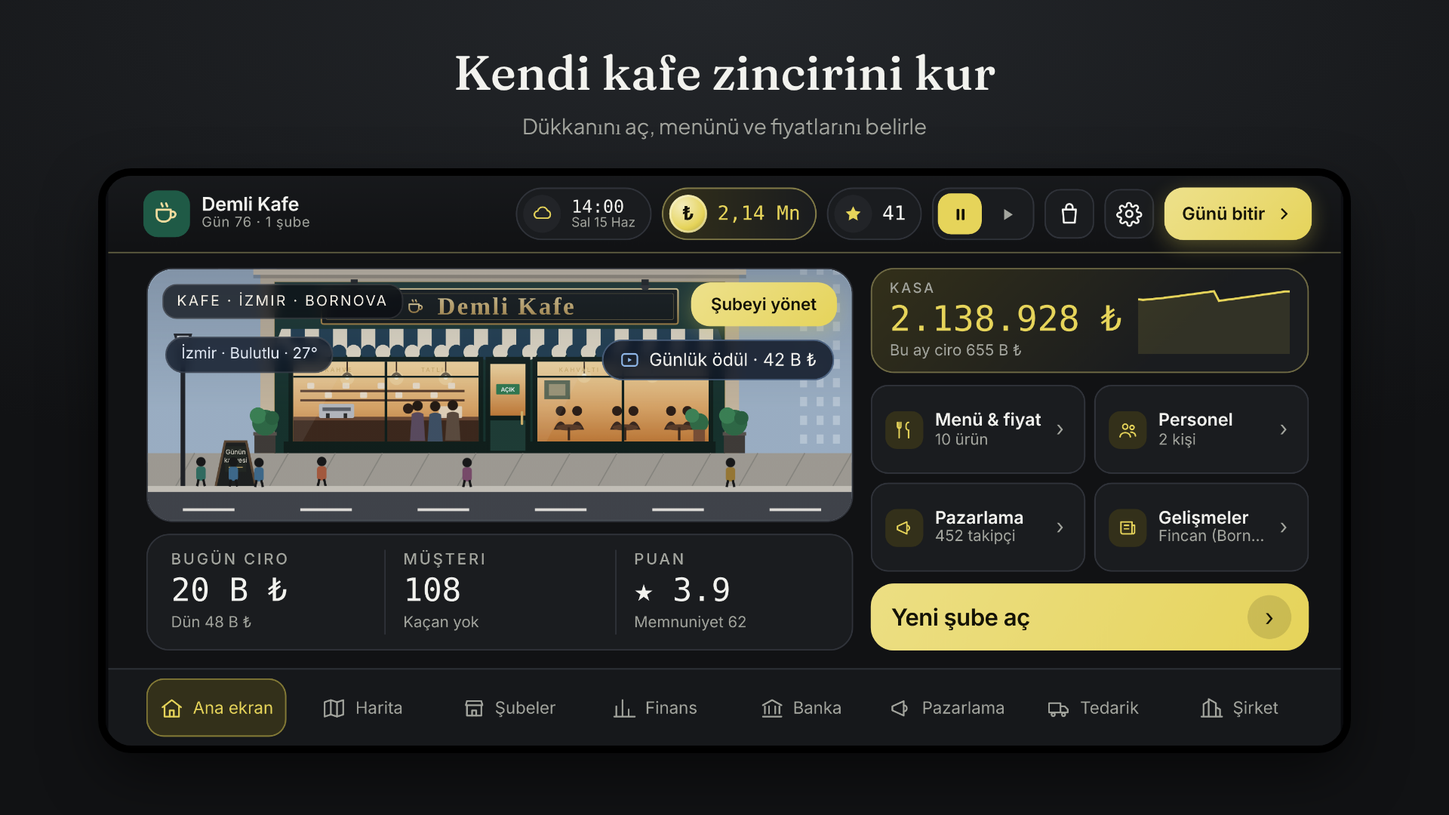
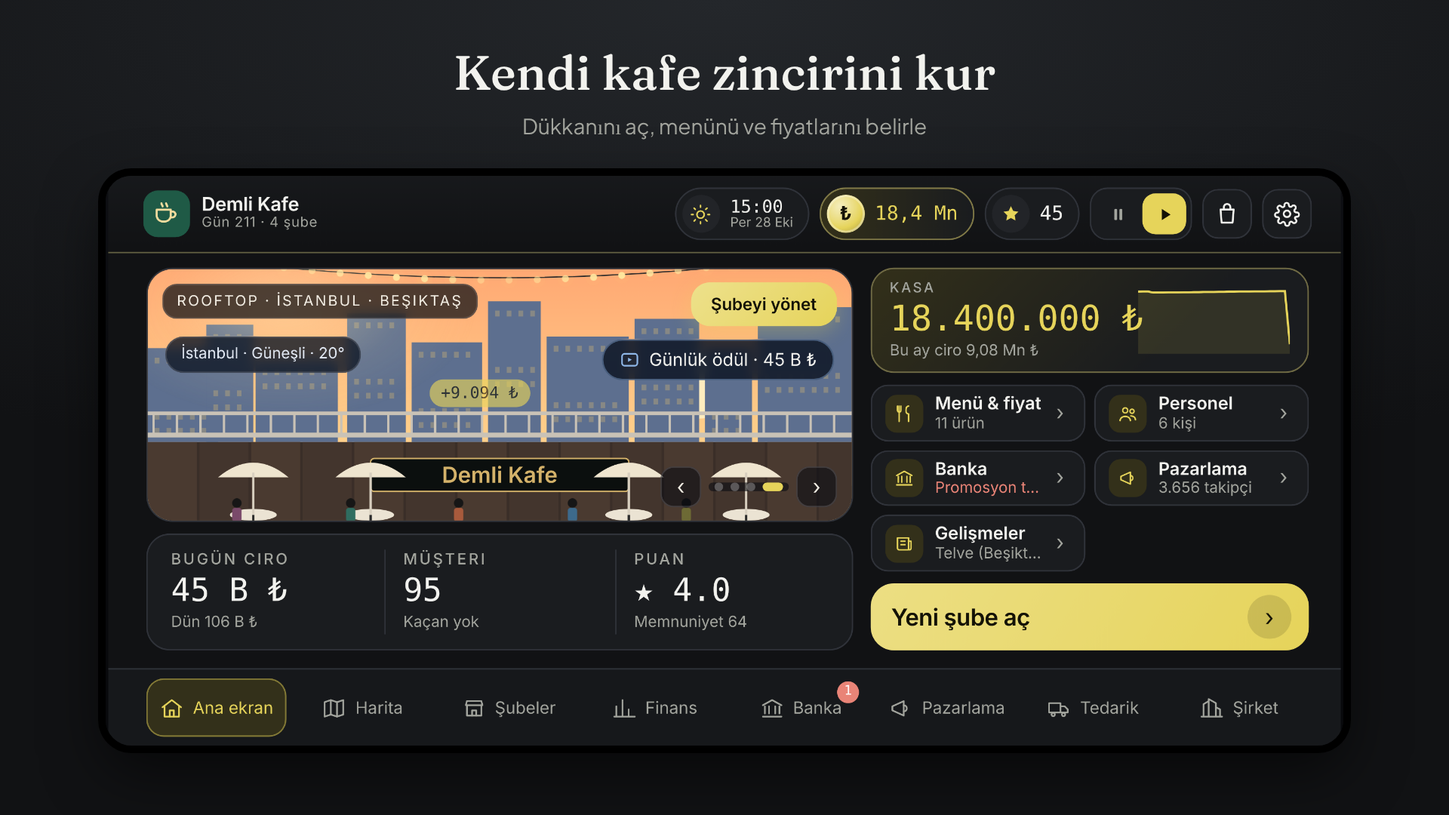
Saat internetten, satın alım geri yükleme, iCloud yedeği, yeni mağaza görselleri
Claude-Session: https://claude.ai/code/session_01Bv4UHxgu9ytg4173wfFM6N

diff --git a/game/app.js b/game/app.js
@@ -17,7 +17,18 @@ const WALLET = 'kafe-zinciri-cuzdan';
 function walletOf(S) { return { gold: S.gold || 0, patron: !!S.patron, fast: !!S.fast, akademi: !!S.akademi, noads: !!S.noads, skins: S.skins || {}, themes: S.themes || {}, locs: S.locs || {}, owned: Object.fromEntries(Object.entries(S.owned || {}).filter(([k]) => /^(patron|hizli|akademi|noads|starter|zincir|skin_|theme_|loc_)/.test(k))), firstDone: !!S.firstDone }; }
 function saveWallet() { try { if (st && st.iap) localStorage.setItem(WALLET, JSON.stringify(walletOf(st.iap))); } catch (e) {} }
 function carryWallet(ns) { try { const w = JSON.parse(localStorage.getItem(WALLET) || 'null'); if (!w) return; const S = K.iapState(ns); Object.assign(S, { gold: Math.max(S.gold, w.gold || 0), patron: w.patron, fast: w.fast, akademi: w.akademi, noads: w.noads, skins: w.skins || {}, themes: w.themes || {}, locs: w.locs || {}, firstDone: w.firstDone }); Object.assign(S.owned, w.owned || {}); } catch (e) {} }
-function save() { saveWallet(); try { if (st) st.savedAt = Date.now(); localStorage.setItem(SAVE, JSON.stringify(st)); ui.lastSave = Date.now(); } catch (e) {} }
+/* ---------- güvenilir saat ----------
+   Uygulamada saat internetten alınır (telefon saatini ileri almak işe yaramaz).
+   Bağlantı yoksa çevrimdışı ilerleme verilmez; tarayıcı sürümü cihaz saatini kullanır. */
+const TT = { base: null, perf: 0, ok: !window.KZ_NATIVE, syncing: null };
+function nowT() { return TT.base != null ? TT.base + (performance.now() - TT.perf) : Date.now(); }
+function syncTime() {
+  if (!window.KZ_NATIVE || !window.KZNetTime) { TT.ok = true; return Promise.resolve(true); }
+  if (TT.syncing) return TT.syncing;
+  return TT.syncing = window.KZNetTime().then(t => { TT.syncing = null; if (!t) { TT.ok = false; return false; } TT.base = t; TT.perf = performance.now(); TT.ok = true; return true; }, () => { TT.syncing = null; TT.ok = false; return false; });
+}
+K.setClock(nowT); syncTime();
+function save() { saveWallet(); try { if (st && TT.ok && !TT.syncing) st.savedAt = nowT(); localStorage.setItem(SAVE, JSON.stringify(st)); ui.lastSave = Date.now(); } catch (e) {} }
 function loadSave() { try { const s = localStorage.getItem(SAVE); return s ? JSON.parse(s) : null; } catch (e) { return null; } }
 function clearSave() { try { localStorage.removeItem(SAVE); } catch (e) {} }
 
@@ -1116,6 +1127,23 @@ function migrate(st) {
 /* ---------- ayarlar ---------- */
 function prefs() { st.prefs = st.prefs || { report: true, coins: true, cashFull: false }; return st.prefs; }
 function sw(k, on, label) { return `<button class="switch ${on ? 'on' : ''}" role="switch" aria-checked="${on}" aria-label="${label}" data-a="pref" data-v="${k}"><i></i></button>`; }
+function backupTxt() {
+  const p = window.KZ_PLATFORM;
+  if (p === 'ios') return 'Kayıt ve Altın iCloud hesabına otomatik yedeklenir; uygulamayı silip yeniden yüklesen de aynı Apple Kimliği ile geri gelir.';
+  if (p === 'android') return 'Kayıt ve Altın Google hesabına otomatik yedeklenir (Android yedekleme açıksa, günde bir kez); yeniden yüklemede geri gelir.';
+  return 'Tarayıcı sürümünde kayıt yalnızca bu cihazda tutulur.';
+}
+const restoreRow = () => `<div class="shrest"><span>Daha önce satın aldıysan</span><button class="btn sm ghost" data-a="restore">Satın alımları geri yükle</button></div>`;
+// mağazadan gelen ürün listesine göre kalıcı ürünleri geri verir (tüketilen Altın/nakit paketleri geri gelmez)
+const RESTORABLE = { patron: { perm: 'patron' }, hizli: { perm: 'fast' }, akademi: { perm: 'akademi' }, noads: { noads: true } };
+function applyRestore(list, silent) {
+  if (!st) { ui.pendRestore = list; return; }
+  const S = K.iapState(st), got = [];
+  for (const id of list || []) { const g = RESTORABLE[id]; if (!g) continue; const key = g.perm || 'noads'; if (S[key]) continue; S[key] = true; S.owned[id] = Math.max(1, S.owned[id] || 0); got.push((K.IAP.find(x => x.id === id) || {}).n || id); }
+  if (got.length) { toast('Geri yüklendi: ' + got.join(', ')); sfx('coin'); save(); render(); }
+  else if (!silent) toast('Geri yüklenecek kalıcı ürün bulunamadı.');
+}
+window.addEventListener('kzrestore', e => applyRestore(e.detail.list, e.detail.silent));
 function settingsSheet() {
   const P = prefs(); const sp = st.speed;
   const sv = ui.lastSave || (st && st.savedAt); const saved = sv ? (new Date(sv).toDateString() === new Date().toDateString() ? 'bugün ' : new Date(sv).toLocaleDateString('tr-TR', { day: 'numeric', month: 'short' }) + ' ') + new Date(sv).toLocaleTimeString('tr-TR', { hour: '2-digit', minute: '2-digit' }) + ' · oyun günü ' + (st.day + 1) : 'henüz yok';
@@ -1133,6 +1161,10 @@ function settingsSheet() {
         <div class="srow col"><div><b>Tema</b><small>Oyunun renkleri. Seçim bu cihazda saklanır.</small></div>${themePicker()}</div>
         <div class="srow"><div><b>Para gösterimi</b><small>Üst çubuktaki kasa tutarı</small></div><div class="seg"><button class="${P.cashFull ? '' : 'on'}" data-a="cashfmt" data-v="0">Kısa · 2 Mn ₺</button><button class="${P.cashFull ? 'on' : ''}" data-a="cashfmt" data-v="1">Tam</button></div></div>
         <div class="srow"><div><b>Kafe adı</b><small>Tabelada ve hesaplarda görünür</small></div><div class="row"><input type="text" id="rename" maxlength="24" value="${esc(st.name)}" aria-label="Kafe adı"><button class="btn sm" data-a="rename">Kaydet</button></div></div>
+      </section>
+      <section class="sgroup"><h4>Hesap ve yedek</h4>
+        <div class="srow"><div><b>Satın alımları geri yükle</b><small>Patron Kartı, Hızlı mod, Akademi ve Reklamsız ${window.KZ_PLATFORM === 'ios' ? 'Apple' : 'Google'} hesabından geri gelir</small></div><button class="btn sm" data-a="restore">Geri yükle</button></div>
+        <div class="srow"><div><b>Bulut yedeği</b><small>${backupTxt()}</small></div></div>
       </section>
       ${window.KZLog ? `<section class="sgroup"><h4>Geliştirici</h4>
         <div class="srow"><div><b>Sürüm</b><small>${esc(window.KZ_VERSION || 'tarayıcı')}${window.KZUpdate ? ' · yeni sürüm var: ' + esc(window.KZUpdate.version) : ''}</small></div><button class="btn sm" data-a="adtest">Reklamı dene</button></div>
@@ -1174,9 +1206,15 @@ function renderLayer() {
   layer.innerHTML = '';
 }
 function checkOffline() {
-  if (!st || ui.offline) return; const o = K.simulateAway(st, Date.now());
-  if (o) ui.offline = o;
-  st.savedAt = Date.now(); save();
+  if (!st || ui.offline) return;
+  syncTime().then(ok => {
+    if (!st || ui.offline) return;
+    if (!ok) { if (st.savedAt && !ui.noNetTold) { ui.noNetTold = true; toast('İnternet yok: oyun kapalıyken geçen süre bağlanınca hesaplanır'); } return; }
+    ui.noNetTold = false;
+    const o = K.simulateAway(st, nowT());
+    if (o) ui.offline = o;
+    st.savedAt = nowT(); save(); if (o) render();
+  });
 }
 function drainQuiet() {
   for (let i = 0; i < 6 && st && !st.crisis; i++) {
@@ -1196,8 +1234,8 @@ document.addEventListener('click', e => {
   if (el.tagName === 'INPUT' || el.tagName === 'SELECT') return;
   if (a === 'rotateok') { ui.rotateOk = true; fit(); return; }
   if (a === 'brand') { ui.brand = brandOf(ui.brand); ui.brand[el.dataset.k] = v; const nm = $('#nm'); if (nm) ui.startName = nm.value; const sv = $('#nm') && $('#nm').selectionStart; render(); const n2 = $('#nm'); return; }
-  if (a === 'newgame') { const nm = $('#nm'); st = K.newGame({ name: (nm && nm.value) || 'Demli Kafe' }); st.brand = brandOf(ui.brand); carryWallet(st); ui.view = 'home'; ui.sel = null; ui.prov = null; ui.mapLevel = 'tr'; render(); save(); return; }
-  if (a === 'continue') { st = loadSave(); if (!st) return; migrate(st); st.paused = true; checkOffline(); if (ui.mapLevel === 'ist') ui.mapLevel = 'tr'; ui.view = 'home'; render(); return; }
+  if (a === 'newgame') { const nm = $('#nm'); st = K.newGame({ name: (nm && nm.value) || 'Demli Kafe' }); st.brand = brandOf(ui.brand); carryWallet(st); if (ui.pendRestore) { const l = ui.pendRestore; ui.pendRestore = null; applyRestore(l, true); } ui.view = 'home'; ui.sel = null; ui.prov = null; ui.mapLevel = 'tr'; render(); save(); return; }
+  if (a === 'continue') { st = loadSave(); if (!st) return; migrate(st); st.paused = true; checkOffline(); if (ui.pendRestore) { const l = ui.pendRestore; ui.pendRestore = null; applyRestore(l, true); } if (ui.mapLevel === 'ist') ui.mapLevel = 'tr'; ui.view = 'home'; render(); return; }
   if (!st) return;
   const b = st.branches.find(x => x.id === ui.branch);
   switch (a) {
@@ -1278,6 +1316,7 @@ document.addEventListener('click', e => {
     case 'reset': ui.confirm = { k: 'reset' }; renderLayer(); return;
     case 'doreset': clearSave(); st = null; ui.confirm = null; ui.setup = null; ui.settings = false; render(); return;
     case 'evad': { const ev = K.nextEvent(st); const k = el.dataset.k; if (ev) runAd(k, null, () => K.resolveEvent(st, ev, +v)); return; }
+    case 'restore': { if (!window.KZIAP || !window.KZIAP.restore) { toast(window.KZ_NATIVE ? 'Mağaza bağlantısı henüz hazır değil, biraz sonra dene.' : 'Tarayıcı sürümünde satın alım yok.'); return; } toast('Mağaza kontrol ediliyor…'); window.KZIAP.restore(false).then(l => applyRestore(l, false), err => toast('Geri yükleme yapılamadı: ' + ((err && err.message) || 'bağlantı hatası'))); return; }
     case 'copylog': { const t = window.KZLog ? window.KZLog.text() : ''; (navigator.clipboard ? navigator.clipboard.writeText(t) : Promise.reject()).then(() => toast('Günlük kopyalandı (' + window.KZLog.lines.length + ' satır).'), () => { const ta = document.createElement('textarea'); ta.value = t; document.body.appendChild(ta); ta.select(); try { document.execCommand('copy'); toast('Günlük kopyalandı.'); } catch (e) { toast('Kopyalanamadı.'); } ta.remove(); }); return; }
     case 'adtest': { if (!window.KZAds) { toast('Reklam yalnızca uygulamada çalışır.'); return; } toast('Reklam yükleniyor…'); window.KZAds.showRewarded('test').then(ok => { toast(ok ? 'Reklam çalıştı.' : 'Reklam açılamadı: ' + (window.KZAds.lastError || 'bilinmeyen')); render(); }); return; }
     case 'updnow': { const u = window.KZUpdate; ui.upd = 'done'; if (u && u.open) u.open(); render(); return; }
@@ -1420,7 +1459,7 @@ function offerEnd(it) {
   return null;
 }
 function cdTxt(ms) { ms = Math.max(0, ms); const d = Math.floor(ms / 864e5), h = Math.floor(ms % 864e5 / 36e5), m = Math.floor(ms % 36e5 / 6e4), s2 = Math.floor(ms % 6e4 / 1000); return (d ? d + 'g ' : '') + String(h).padStart(2, '0') + ':' + String(m).padStart(2, '0') + ':' + String(s2).padStart(2, '0'); }
-function endChip(it) { const e = offerEnd(it); if (!e) return ''; return e.at ? `<span class="shend" data-cd="${e.at}">${I('<circle cx="12" cy="12" r="8.5"/><path d="M12 7.5V12l3 2"/>')}<b>${cdTxt(e.at - Date.now())}</b></span>` : `<span class="shend">${I('<circle cx="12" cy="12" r="8.5"/><path d="M12 7.5V12l3 2"/>')}<b>${e.txt}</b></span>`; }
+function endChip(it) { const e = offerEnd(it); if (!e) return ''; return e.at ? `<span class="shend" data-cd="${e.at}">${I('<circle cx="12" cy="12" r="8.5"/><path d="M12 7.5V12l3 2"/>')}<b>${cdTxt(e.at - nowT())}</b></span>` : `<span class="shend">${I('<circle cx="12" cy="12" r="8.5"/><path d="M12 7.5V12l3 2"/>')}<b>${e.txt}</b></span>`; }
 function tlCard(it, big) {
   const worth = it.worth ? `<s>${tl(it.worth)}</s>` : '';
   const pct = it.worth ? Math.round((1 - it.price / it.worth) * 100) : 0;
@@ -1462,7 +1501,7 @@ function shopSheet() {
     const gp = [K.GSHOP.find(x => x.id === 'loc_galata'), K.GSHOP.find(x => x.id === 'skin_neon')].filter(x => x && K.iapAvail(st, x));
     body = `<div class="sxg2 feat">${tlCard(hero, true)}<div class="sxg">${picks.map(x => tlCard(x)).join('')}${gp.map(gCard).join('')}</div></div>`;
   } else if (tab === 'Teklifler') body = offers.length ? `<div class="sxg">${offers.map(x => tlCard(x, true)).join('')}</div>` : `<p class="muted shempty">Şu an aktif teklif yok. Haftalık fırsat her pazartesi yenilenir.</p>`;
-  else if (tab === 'Kalıcı') body = `<div class="sxg">${K.IAP.filter(x => x.cat === 'Kalıcı').map(x => S.owned[x.id] ? `<div class="sx own"><span class="sxic">${I(SHOP_IC['Kalıcı'])}</span><b>${esc(x.n)}</b><small>${esc(x.d)}</small><span class="sxp"><em>Sende var</em></span></div>` : tlCard(x)).join('')}</div>`;
+  else if (tab === 'Kalıcı') body = `<div class="sxg">${K.IAP.filter(x => x.cat === 'Kalıcı').map(x => S.owned[x.id] ? `<div class="sx own"><span class="sxic">${I(SHOP_IC['Kalıcı'])}</span><b>${esc(x.n)}</b><small>${esc(x.d)}</small><span class="sxp"><em>Sende var</em></span></div>` : tlCard(x)).join('')}</div>${restoreRow()}`;
   else if (tab === 'Kasa') body = `<h5 class="shh5">Altın Çekirdek</h5><div class="sxg">${tlAv('Kasa').filter(x => x.give.gold).map(x => tlCard(x)).join('')}</div><h5 class="shh5">Nakit</h5><div class="sxg">${tlAv('Kasa').filter(x => x.give.cash).map(x => tlCard(x)).join('')}</div>`;
   else body = `<div class="sxg ${tab === 'Görünüm' || tab === 'Lokasyonlar' ? 'wide' : ''}">${gAv(tab).map(gCard).join('')}</div>`;
   const first = !S.firstDone ? `<div class="shfirst">${I(SHOP_IC.Teklifler)}<span><b>İlk alımına 2 kat!</b> İlk paketinde nakit ve Altın iki katı gelir.</span></div>` : '';
@@ -1544,7 +1583,8 @@ function loop(now) {
 
 /* ---------- başlat ---------- */
 window.addEventListener('kzupdate', () => { if (st) render(); });
-setInterval(() => { document.querySelectorAll('[data-cd]').forEach(e => { const b = e.querySelector('b'); if (b) b.textContent = cdTxt(+e.dataset.cd - Date.now()); }); }, 1000);
+setInterval(() => { document.querySelectorAll('[data-cd]').forEach(e => { const b = e.querySelector('b'); if (b) b.textContent = cdTxt(+e.dataset.cd - nowT()); }); }, 1000);
+window.addEventListener('online', () => { if (st) checkOffline(); });
 document.addEventListener('visibilitychange', () => { if (!st) return; if (document.hidden) save(); else { checkOffline(); render(); } });
 window.addEventListener('pagehide', () => { if (st) save(); });
 const saved = loadSave();

diff --git a/src/native.js b/src/native.js
@@ -23,6 +23,26 @@
   function boot() { try { window.__kzBoot && window.__kzBoot(); } finally { if (P.SplashScreen) P.SplashScreen.hide().catch(function () {}); } }
   if (!NATIVE) { boot(); return; }
   if (PLATFORM === 'android') document.documentElement.classList.add('lowfx');
+
+  /* Güvenilir saat: telefon saatine değil sunucu saatine bakılır (saat hilesine karşı) */
+  var TIME_URLS = ['https://www.google.com/generate_204', 'https://www.cloudflare.com/cdn-cgi/trace', 'https://www.apple.com/library/test/success.html'];
+  function oneTime(url) {
+    var H = P.CapacitorHttp, t0 = Date.now();
+    if (!H) return Promise.reject('CapacitorHttp yok');
+    return H.request({ url: url + (url.indexOf('?') < 0 ? '?' : '&') + 't=' + t0, method: 'GET', connectTimeout: 6000, readTimeout: 6000, headers: { 'Cache-Control': 'no-cache' } }).then(function (r) {
+      var rtt = Date.now() - t0, h = r.headers || {}, d = null;
+      Object.keys(h).forEach(function (k) { if (k.toLowerCase() === 'date') d = h[k]; });
+      var ms = d ? Date.parse(d) : NaN;
+      if (isNaN(ms) && typeof r.data === 'string') { var m = /ts=(\d+(\.\d+)?)/.exec(r.data); if (m) ms = parseFloat(m[1]) * 1000; }
+      if (isNaN(ms)) throw 'saat bilgisi yok';
+      return ms + rtt / 2;
+    });
+  }
+  window.KZNetTime = function () {
+    var i = 0;
+    function next() { if (i >= TIME_URLS.length) return null; var u = TIME_URLS[i++]; return oneTime(u).then(function (t) { LOG.add('INFO', 'saat alındı (' + u.split('/')[2] + ') fark ' + Math.round((t - Date.now()) / 1000) + ' sn'); return t; }, function (e) { LOG.add('INFO', 'saat alınamadı ' + u.split('/')[2] + ': ' + fmtErr(e)); return next(); }); }
+    return Promise.resolve(next());
+  };
   var INFO = null;
   var infoP = (P.App && P.App.getInfo ? P.App.getInfo() : Promise.reject()).then(function (i) { INFO = i; window.KZ_VERSION = i.version + ' (' + i.build + ')'; LOG.add('INFO', 'sürüm ' + window.KZ_VERSION + ' ' + i.id); return i; }, function () { return null; });
 
@@ -53,10 +73,15 @@
   var pending = {}, timer = null;
   function flush() { timer = null; var q = pending; pending = {}; Object.keys(q).forEach(function (k) {
       if (q[k] === null) Pref.remove({ key: k }).catch(function () {}); else Pref.set({ key: k, value: q[k] }).catch(function () {}); }); }
-  function queue(k, v) { pending[k] = v; if (!timer) timer = setTimeout(flush, 400); }
+  /* iCloud yedeği (iOS): kayıt ve cüzdan iCloud'a da yazılır. Android'de Google Yedekleme aynı işi yapar. */
+  var Cloud = (PLATFORM === 'ios' && C.registerPlugin) ? C.registerPlugin('KZCloud') : null;
+  var CLOUD_KEYS = { 'kafe-zinciri-v1': 1, 'kafe-zinciri-cuzdan': 1 }, cloudQ = {}, cloudT = null;
+  function cloudFlush() { cloudT = null; var q = cloudQ; cloudQ = {}; Object.keys(q).forEach(function (k) { Cloud.set(q[k] === null ? { key: k } : { key: k, value: q[k] }).catch(function (e) { LOG.add('INFO', 'iCloud yazılamadı: ' + fmtErr(e)); }); }); }
+  function cloudQueue(k, v) { if (!Cloud || !CLOUD_KEYS[k]) return; cloudQ[k] = v; if (!cloudT) cloudT = setTimeout(cloudFlush, 5000); }
+  function queue(k, v) { pending[k] = v; cloudQueue(k, v); if (!timer) timer = setTimeout(flush, 400); }
   Storage.prototype.setItem = function (k, v) { origSet(k, v); if (this === ls && String(k).indexOf(PREFIX) === 0) queue(String(k), String(v)); };
   Storage.prototype.removeItem = function (k) { origRemove(k); if (this === ls && String(k).indexOf(PREFIX) === 0) queue(String(k), null); };
-  if (P.App) P.App.addListener('pause', function () { if (timer) { clearTimeout(timer); flush(); } });
+  if (P.App) P.App.addListener('pause', function () { if (timer) { clearTimeout(timer); flush(); } if (cloudT) { clearTimeout(cloudT); cloudFlush(); } });
   document.addEventListener('visibilitychange', function () { if (document.hidden && timer) { clearTimeout(timer); flush(); } });
 
   function restore() {
@@ -68,6 +93,15 @@
           // iki kayıt varsa daha yeni olanı tut
           if (cur && k === 'kafe-zinciri-v1') { try { if ((JSON.parse(cur).savedAt || 0) > (JSON.parse(g.value).savedAt || 0)) { queue(k, cur); return; } } catch (e) {} }
           origSet(k, g.value); } }); }));
+    }).then(function () {
+      if (!Cloud) return;
+      // iCloud'daki kayıt daha yeniyse (ya da cihazda hiç yoksa) onu kullan
+      return Promise.all(Object.keys(CLOUD_KEYS).map(function (k) { return Cloud.get({ key: k }).then(function (g) {
+        if (!g || g.value == null) return; var cur = null; try { cur = ls.getItem(k); } catch (e) {}
+        var take = !cur;
+        if (cur && k === 'kafe-zinciri-v1') { try { take = (JSON.parse(g.value).savedAt || 0) > (JSON.parse(cur).savedAt || 0) + 60000; } catch (e) {} }
+        if (take) { origSet(k, g.value); LOG.add('INFO', 'iCloud yedeğinden geri yüklendi: ' + k); }
+      }); })).catch(function (e) { LOG.add('INFO', 'iCloud okunamadı: ' + fmtErr(e)); });
     }).then(function () {
       // ilk açılış: eski localStorage kaydını Preferences'a taşı
       for (var i = 0; i < ls.length; i++) { var k = ls.key(i); if (k && k.indexOf(PREFIX) === 0) queue(k, ls.getItem(k)); }
@@ -131,8 +165,20 @@
             return P.Purchases.purchaseStoreProduct({ product: prod });
           }).then(function () { return true; }, function (e) { if (!(e && (e.userCancelled || e.code === '1'))) console.warn('IAP', e); return false; });
         },
-        prices: {}
+        prices: {},
+        // kalıcı ürünleri (Patron Kartı, Hızlı mod, Akademi, Reklamsız) mağazadan geri getirir
+        restore: function (silent) {
+          return (silent ? P.Purchases.getCustomerInfo() : P.Purchases.restorePurchases()).then(function (r) {
+            var ci = (r && r.customerInfo) || {}, set = {};
+            (ci.allPurchasedProductIdentifiers || []).forEach(function (x) { set[x] = 1; });
+            (ci.nonSubscriptionTransactions || []).forEach(function (t) { set[t.productIdentifier] = 1; });
+            var out = Object.keys(set).map(function (x) { return x.replace(CFG.skuPrefix || '', '').split(':')[0]; });
+            LOG.add('INFO', 'geri yükleme: ' + (out.join(',') || 'ürün yok'));
+            return out;
+          });
+        }
       };
+      window.KZIAP.restore(true).then(function (l) { try { window.dispatchEvent(new CustomEvent('kzrestore', { detail: { list: l, silent: true } })); } catch (e) {} }, function () {});
       // mağazadaki yerel fiyatları oyundaki mağaza ekranına aktar
       var ids = ['starter','melek','zincir','bayram','haftalik_a','haftalik_b','haftalik_c','patron','hizli','akademi','noads','gold_s','gold_m','gold_l','cash_s','cash_m','cash_l'];
       return P.Purchases.getProducts({ productIdentifiers: ids.map(function (x) { return (CFG.skuPrefix || '') + x; }), type: 'NON_SUBSCRIPTION' }).then(function (r) {

diff --git a/game/core.js b/game/core.js
@@ -764,7 +764,10 @@ function maybeNewMall(st) {
 // TL ürünleri App Store / Google Play üzerinden satılır (kimlik: io.arcbyte.kafezinciri.<id>).
 // Altın Çekirdek oyun içi para birimidir: TL ile alınır, görev ve reklamlardan az miktarda kazanılır, görünüm/lokasyon/hız ürünlerinde harcanır.
 const WEEK_MS = 7 * 864e5;
-function weekNo(now) { return Math.floor(((now || Date.now()) + 3 * 864e5) / WEEK_MS); } // haftalar pazartesi başlar
+let clockFn = () => Date.now();
+function setClock(f) { clockFn = f; }
+function clockNow() { return clockFn(); }
+function weekNo(now) { return Math.floor(((now || clockFn()) + 3 * 864e5) / WEEK_MS); } // haftalar pazartesi başlar
 function weekEnds(now) { return (weekNo(now) + 1) * WEEK_MS - 3 * 864e5; }
 const IAP = [
   // Teklifler (zamanlı / duruma göre)
@@ -862,7 +865,7 @@ function useTicket(st, bid) { const S = iapState(st), b = st.branches.find(x => 
 // sınırlar gerçek güne göre (mağaza oyunlarındaki gibi); ödüller küçük tutuldu
 const AD_CAP = { offline: 4, ruhsat: 4, ilan: 3, incele: 3, ariza: 2, aybonus: 3, ihtar: 1, gunluk: 1, moral: 2 };
 const AD_TOTAL = 15;
-function adDay() { const d = new Date(); return d.getFullYear() + '-' + (d.getMonth() + 1) + '-' + d.getDate(); }
+function adDay() { const d = new Date(clockFn()); return d.getFullYear() + '-' + (d.getMonth() + 1) + '-' + d.getDate(); }
 function adState(st) { const k = adDay(); if (!st.ads || st.ads.day !== k) st.ads = { day: k, n: {}, tot: 0 }; return st.ads; }
 function adLeft(st, kind) { const a = adState(st); return Math.max(0, Math.min((AD_CAP[kind] || 1) - (a.n[kind] || 0), AD_TOTAL - a.tot)); }
 function adMark(st, kind) { const a = adState(st); a.n[kind] = (a.n[kind] || 0) + 1; a.tot++; }
@@ -1646,7 +1649,7 @@ function fmtK(v) { const a = Math.abs(v), s = v < 0 ? '−' : ''; if (a >= 1e6) 
 const _endDay = endDay;
 function endDayWrap(st) { corporateDaily(st); _endDay(st); }
 
-root.KZ = { START_REC, simulateAway, advanceHours, GSHOP, SLOCS, SKINS, PTHEMES, goldBuy, earnGold, weekEnds,  offlineEarn, claimOffline, 
+root.KZ = { setClock, clockNow, START_REC, simulateAway, advanceHours, GSHOP, SLOCS, SKINS, PTHEMES, goldBuy, earnGold, weekEnds,  offlineEarn, claimOffline, 
   DISTRICTS, PROVINCES, PROV, PROFILE, profileOf, provDistricts, comps, SEGS, PRODUCTS, TYPES, ARCH, EQUIP, DECOR, CONCEPTS, WAGES, BANKS, SUPPLY, AGENCIES, RIVALS, STARTS, MONTHS, DAYS, AUD_LABEL,
   newGame, tickHour: function (st) { if (st.over) return; for (const b of st.branches) branchHour(st, b, st.hour); msHour(st); st.hour++; if (st.hour >= 24) { st.hour = 0; endDayWrap(st); msDay(st); } },
   dateOf, dateLabel, monthLabel, weatherLabel, wxOf, WX_N, getListings, refreshListings, inspectListing, listingEstimate, permitsFor, waitDays, conceptsFor, minStaff, defaultChoice, setupCost, openBranch,

diff --git a/ios/App/App/AppDelegate.swift b/ios/App/App/AppDelegate.swift
@@ -42,3 +42,34 @@ class AppDelegate: UIResponder, UIApplicationDelegate {
         return config
     }
 }
+
+// MARK: - Kafe Zinciri: iCloud yedeği
+// Oyun kaydı ve Altın cüzdanı iCloud anahtar-değer deposuna da yazılır;
+// uygulama silinip yeniden yüklenince (aynı Apple Kimliği) geri gelir.
+@objc(KZCloudPlugin)
+public class KZCloudPlugin: CAPPlugin, CAPBridgedPlugin {
+    public let identifier = "KZCloudPlugin"
+    public let jsName = "KZCloud"
+    public let pluginMethods: [CAPPluginMethod] = [
+        CAPPluginMethod(name: "get", returnType: CAPPluginReturnPromise),
+        CAPPluginMethod(name: "set", returnType: CAPPluginReturnPromise)
+    ]
+    @objc func get(_ call: CAPPluginCall) {
+        let store = NSUbiquitousKeyValueStore.default
+        store.synchronize()
+        if let v = store.string(forKey: call.getString("key") ?? "") { call.resolve(["value": v]) } else { call.resolve([:]) }
+    }
+    @objc func set(_ call: CAPPluginCall) {
+        guard let key = call.getString("key") else { call.reject("anahtar yok"); return }
+        let store = NSUbiquitousKeyValueStore.default
+        if let v = call.getString("value") { store.set(v, forKey: key) } else { store.removeObject(forKey: key) }
+        store.synchronize()
+        call.resolve()
+    }
+}
+
+class KZViewController: CAPBridgeViewController {
+    override open func capacitorDidLoad() {
+        bridge?.registerPluginInstance(KZCloudPlugin())
+    }
+}

diff --git a/game/app.css b/game/app.css
@@ -1345,3 +1345,4 @@ html.lowfx .sheet, html.lowfx .card, html.lowfx .tile { box-shadow: none !import
 .shop2 .sxic svg, .shop2 .shtabs svg, .shop2 .shend svg, .shop2 .shloc svg, .shop2 .shfirst svg, .shop2 .spbig.loc svg, .shop2 .sti svg { fill: none; stroke: currentColor; stroke-width: 1.8; stroke-linecap: round; stroke-linejoin: round; }
 .shop2 .sx .shend b, .shop2 .sx.sxhero .shend b { font-size: 11.5px; font-weight: 600; }
 .shop2 .sx .shloc b { font-size: 15px; font-weight: 500; }
+.shrest{display:flex;align-items:center;justify-content:space-between;gap:10px;margin-top:12px;padding:10px 12px;border:1px dashed var(--line);border-radius:12px;color:var(--muted);font-size:13px}

diff --git a/store/MAGAZA-METINLERI.md b/store/MAGAZA-METINLERI.md
@@ -44,6 +44,6 @@ Kendi kahveni demle, ilk dükkanını aç ve zincirini Türkiye'ye yay.
 
 ## Görseller
 
-- `ios/` — 2868×1320 (iPhone 6.9", yatay), 5 adet
-- `android/` — 1920×1080 başlıklı ekran görüntüleri, 5 adet + `android_feature_1024x500.png` (öne çıkan görsel)
+- `ios/` — 2868×1320 (iPhone 6.9", yatay), 6 adet
+- `android/` — 1920×1080 başlıklı ekran görüntüleri, 6 adet + `android_feature_1024x500.png` (öne çıkan görsel)
 - `icon-1024.png` — mağaza ikonu (Play için 512×512'ye küçültülür)
